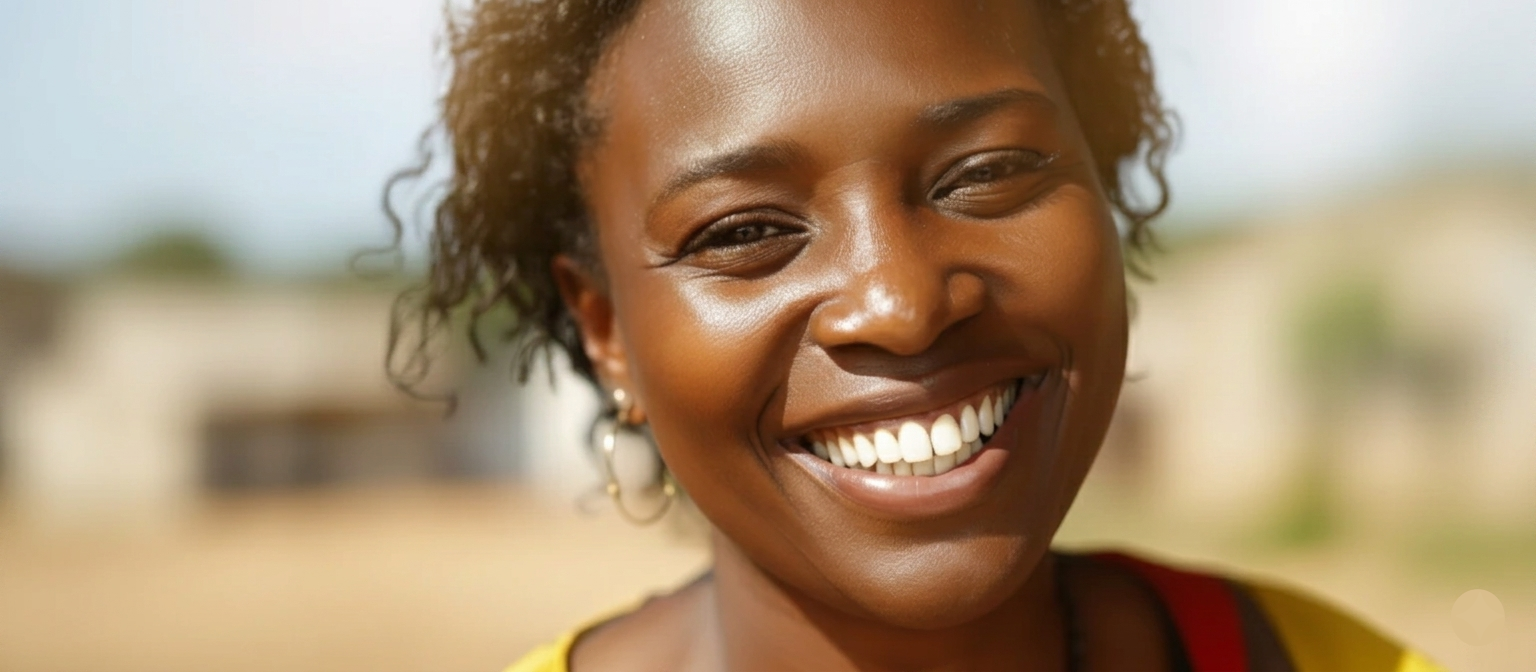
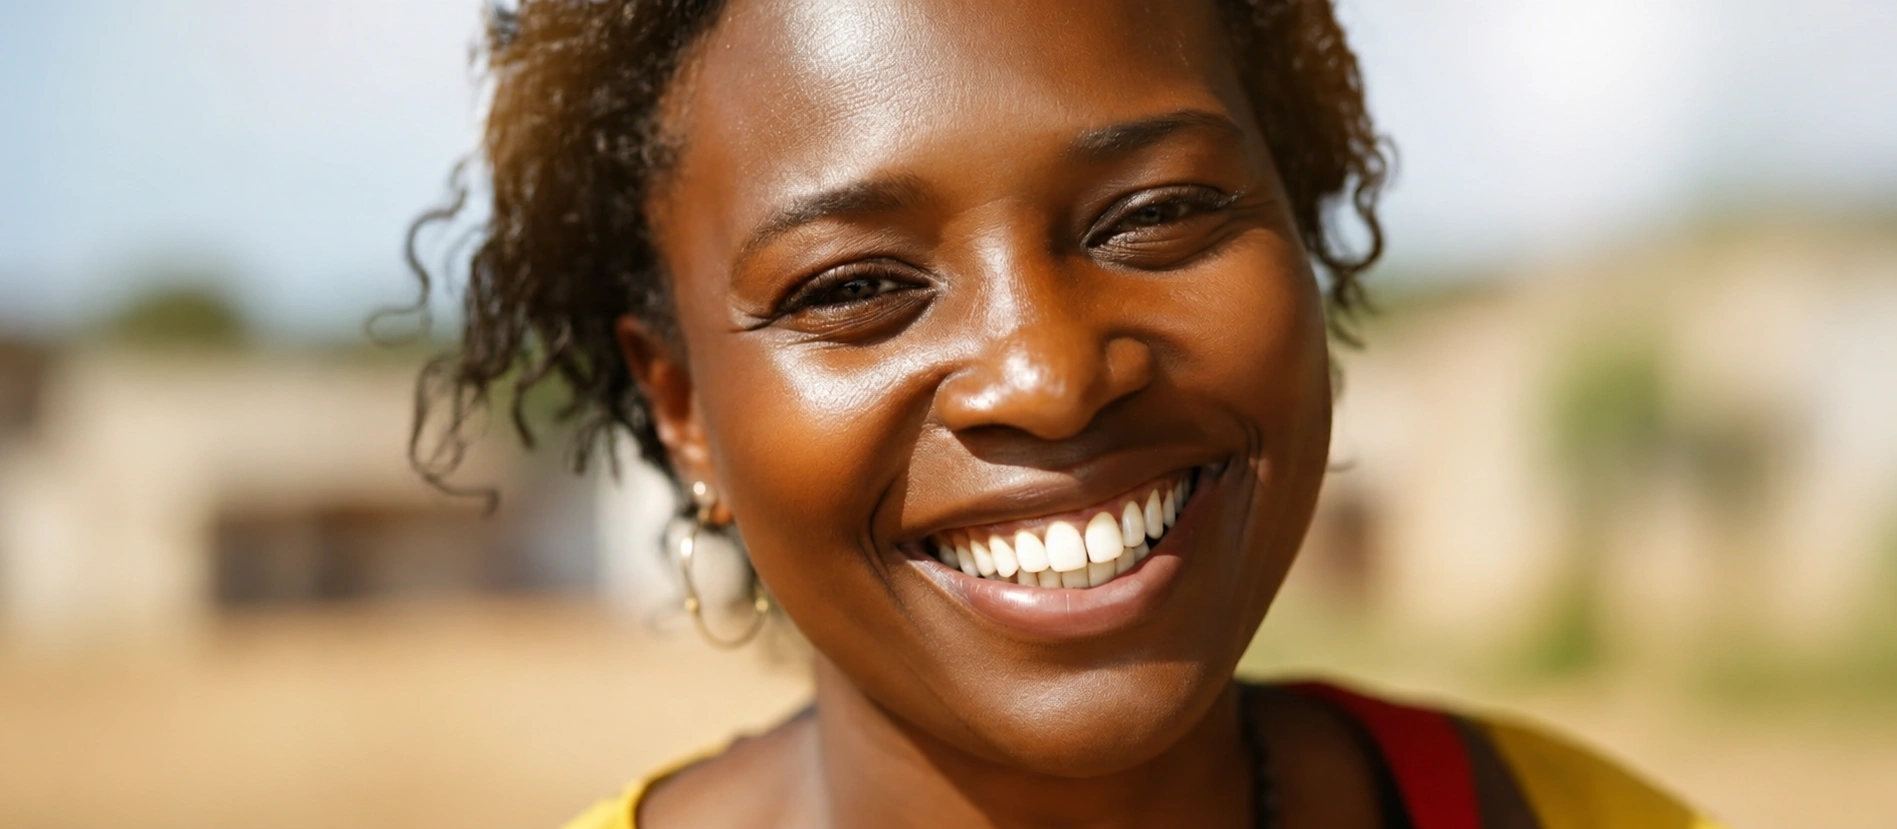
chng bg hero

diff --git a/src/app/reclamation-form/reclamation-form.html b/src/app/reclamation-form/reclamation-form.html
@@ -1,25 +1,25 @@
 <div class="font-exo2
             relative
-            mx-8
+            mx-4 sm:mx-6 lg:mx-8
             before:absolute before:inset-0
-            before:rounded-[3rem]
+            before:rounded-[1.5rem] sm:before:rounded-[3rem]
             before:border before:border-green-600
             before:pointer-events-none">
-  <h2 class="text-3xl sm:text-4xl lg:text-5xl font-extrabold text-green-700 text-center mt-6 pt-2 mb-10">
+  <h2 class="text-3xl sm:text-4xl lg:text-5xl font-extrabold text-green-700 text-center mt-6 pt-2 mb-8 sm:mb-10">
     Réclamation
   </h2>
-  <div class="w-full bg-white lg:py-14 px-4">
-    <div class="max-w-7xl mx-auto flex flex-col lg:flex-row gap-12 px-6">
+  <div class="w-full bg-white py-6 lg:py-14 px-3 sm:px-4">
+    <div class="max-w-7xl mx-auto flex flex-col lg:flex-row gap-8 lg:gap-12 px-2 sm:px-6">
       <!-- COLONNE GAUCHE -->
-      <div class="flex-1 max-w-[600px] text-gray-700 leading-relaxed text-lg">
+      <div class="flex-1 max-w-[600px] text-gray-700 leading-relaxed text-base sm:text-lg">
         <p class="max-w-xl">
           Vous avez rencontré un problème avec les services de la
           <span class="font-semibold text-green-700">SEN-CSU&nbsp;?</span>
           Déposez votre réclamation ici et notre équipe vous répondra rapidement.
         </p>
-        <img src="assets/logo.png" alt="Logo SEN-CSU" class="w-80 my-8">
-        <div class="w-80 h-[2px] bg-green-700 my-6"></div>
-        <h3 class="text-2xl font-semibold text-green-700 mb-4">Coordonnées de contact</h3>
+        <img src="assets/logo.png" alt="Logo SEN-CSU" class="w-56 sm:w-72 lg:w-80 max-w-full my-8">
+        <div class="w-56 sm:w-72 lg:w-80 max-w-full h-[2px] bg-green-700 my-6"></div>
+        <h3 class="text-xl sm:text-2xl font-semibold text-green-700 mb-4">Coordonnées de contact</h3>
         <div class="flex items-start gap-3 mb-5">
           <a href="https://www.google.com/maps/place/Agence+de+la+CMU" target="_blank"
              class="text-green-700 hover:underline">

diff --git a/src/app/footer/footer.html b/src/app/footer/footer.html
@@ -72,7 +72,6 @@
         <li><button (click)="goToMaintenance()" class="hover:underline">Pharmacies partenaires</button></li>
       </ul>
     </div>
-
   </div>
 
   <!-- Barre du bas : copyright + réseaux -->